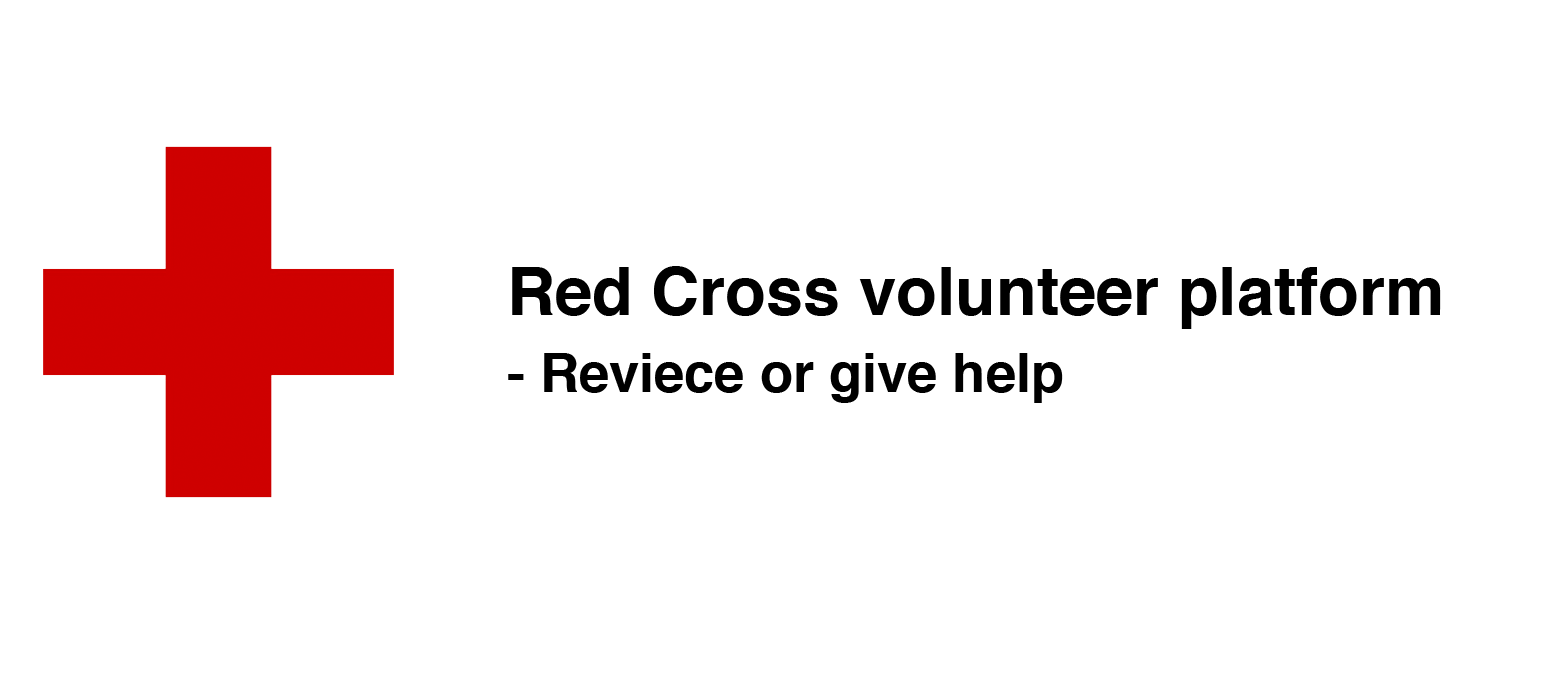
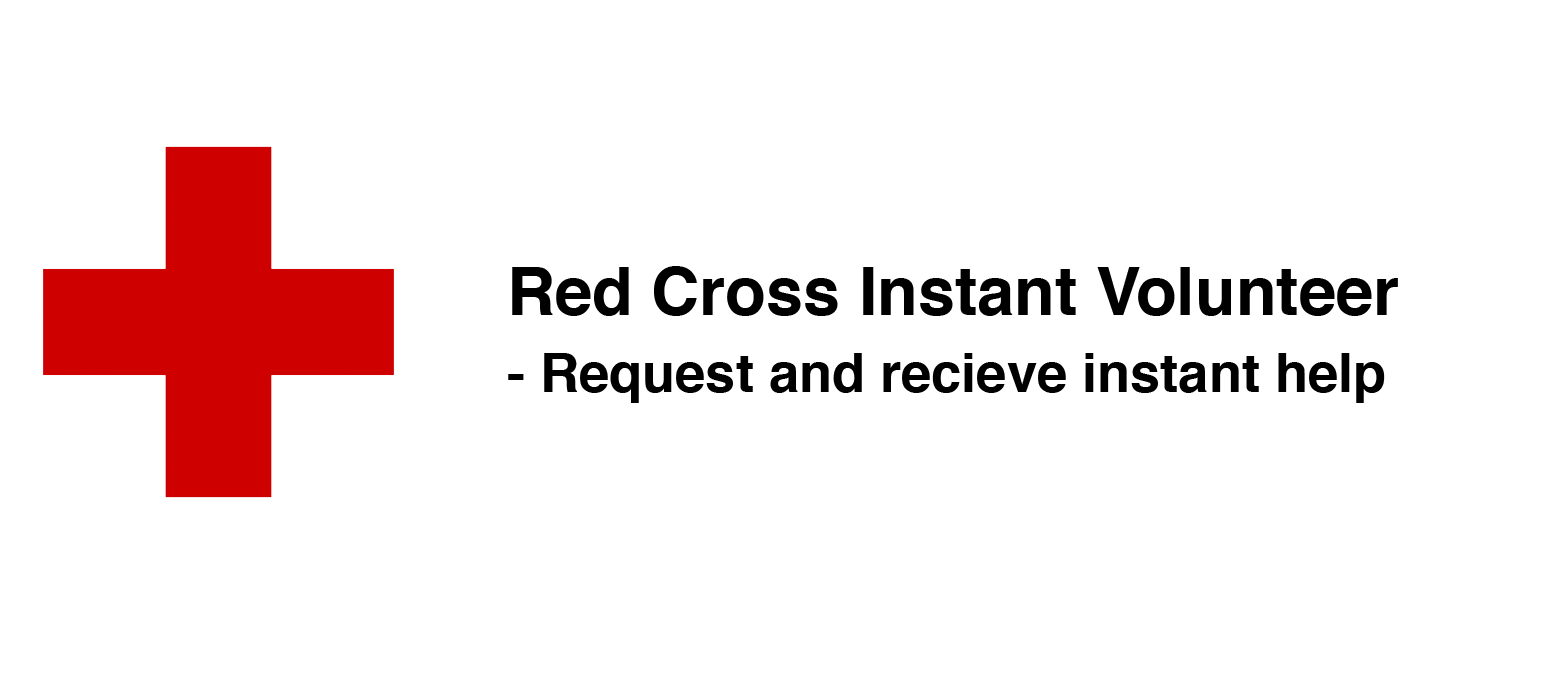
changes

Changed region(s): [[0.3735, 0.5159, 0.9027, 0.5766], [0.5603, 0.3945, 0.9339, 0.4855]]

diff --git a/App/html/general-login.html b/App/html/general-login.html
@@ -13,26 +13,32 @@
 
         <!-- Latest compiled and minified JavaScript -->
         <script src="https://maxcdn.bootstrapcdn.com/bootstrap/3.3.7/js/bootstrap.min.js" integrity="sha384-Tc5IQib027qvyjSMfHjOMaLkfuWVxZxUPnCJA7l2mCWNIpG9mGCD8wGNIcPD7Txa" crossorigin="anonymous"></script>
-        
+        <script>
+            var app = angular.module('login', []);
+            app.controller('login-ctrl', function($scope){
+                $scope.hej = false;
+            })
+        </script>
     </head>
     
-    <body>
+    <body ng-app='login' ng-controller='login-ctrl'>
         <div class="container">
 
 <div class="row" style="margin-top:20px">
     <div class="col-xs-12 col-sm-8 col-md-6 col-sm-offset-2 col-md-offset-3">
         <img src="../img/redcross.png" class='img-responsive'>
         <p>
-            Welcome to the swedish red cross volunteer site. This site is for volunteers to give help to people in need, and for people in need to requests help from volunteers. 
+            Welcome to the swedish Red Cross Instant Volunteer. This site will let you receive help from our well educated volunteers all around the country, it could be anything from help with the swedish language to food supply. Register or sign in with your details. The service is not for emergency calls, in those cases you should call the swedish emergency number: 112.
         </p>
-		<form role="form" action='volunteer-help-people.html'>
+		<form name='login-form' role="form" action='volunteer-help-people.html'>
 			<fieldset>
 				<hr class="colorgraph">
+				<h2>Sign in</h2>
 				<div class="form-group">
-                    <input type="email" name="email" id="email" class="form-control input-lg" placeholder="Email Address">
+                    <input type="email" name="email" ng-model="email" id="email" class="form-control input-lg" placeholder="Email Address" required>
 				</div>
 				<div class="form-group">
-                    <input type="password" name="password" id="password" class="form-control input-lg" placeholder="Password">
+                    <input type="password" name="password" ng-model="password" id="password" class="form-control input-lg" placeholder="Password" required>
 				</div>
 				<span class="button-checkbox">
 					<label><input type="checkbox"> Remember Me</label>
@@ -42,11 +48,16 @@
 				<hr class="colorgraph">
 				<div class="row">
 					<div class="col-xs-6 col-sm-6 col-md-6">
-                        <input type="submit" class="btn btn-lg btn-success btn-block" value="Sign In">
+                        <input type="submit" class="btn btn-lg btn-success btn-block" value="Sign In" ng-disabled='true'>
 					</div>
 					<div class="col-xs-6 col-sm-6 col-md-6">
 						<a href="general-register.html" class="btn btn-lg btn-primary btn-block">Register</a>
 					</div>
+				</div>
+				<div class="row">
+				    <div class="col-xs-12">
+				        <a href="">I am a volunteer</a>{{login-form.password.$valid}}
+				    </div>
 				</div>
 			</fieldset>
 		</form>

diff --git a/App/html/general-register.html b/App/html/general-register.html
@@ -26,13 +26,6 @@
 			<fieldset>
 				<hr class="colorgraph">
                 <h3>Create account</h3>
-                <h4>Account type</h4>
-                <select class="form-control">
-                  <option>SELECT ACCOUNT TYPE</option>
-                  <option>I'm a Volunteer</option>
-                  <option>I'm in need of help</option>
-                  <option>I'm an organisator</option>
-                </select>
                 
                 <h4>E-mail</h4>
 				<div class="form-group">
